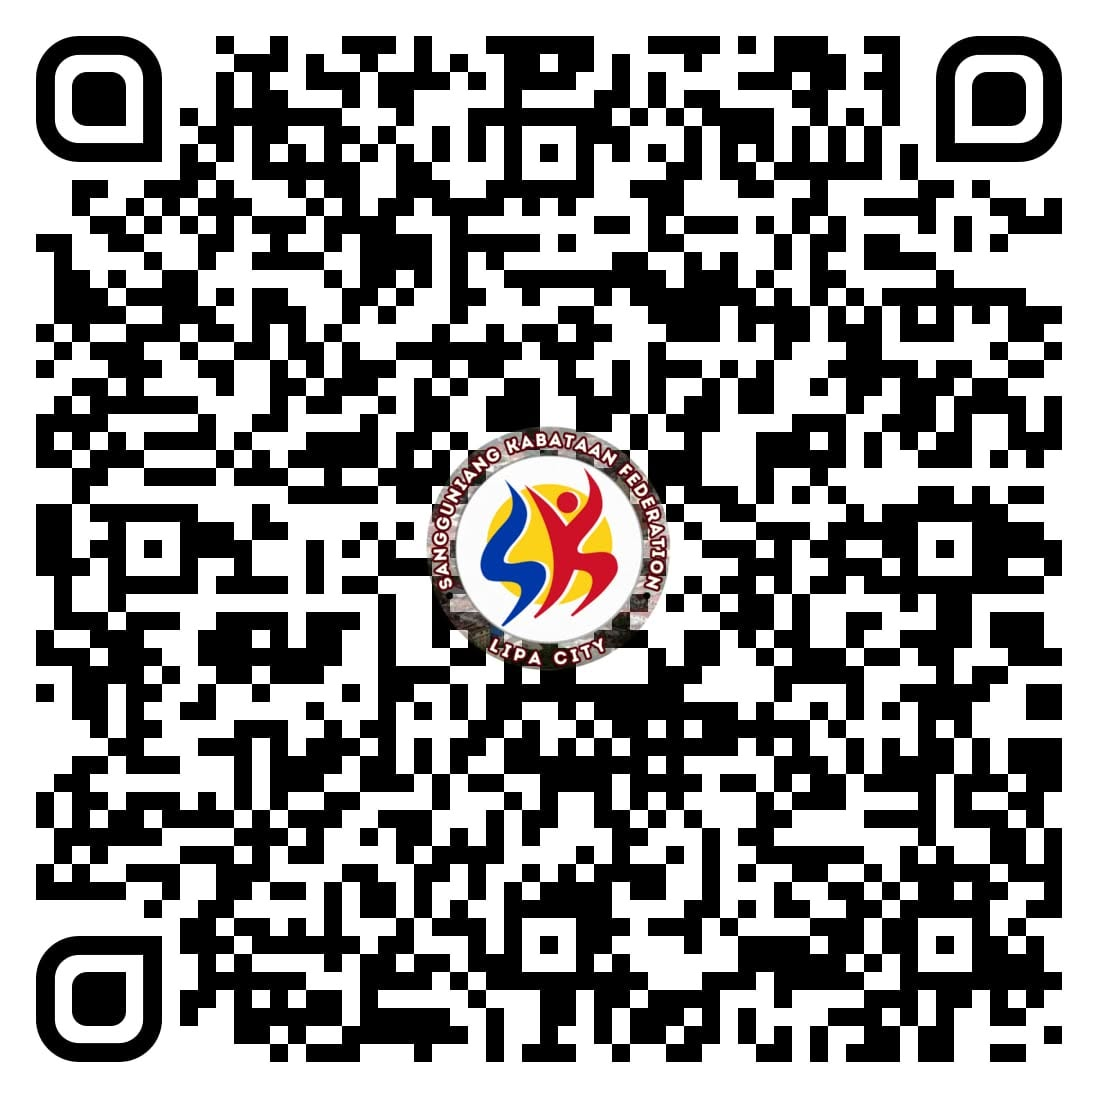
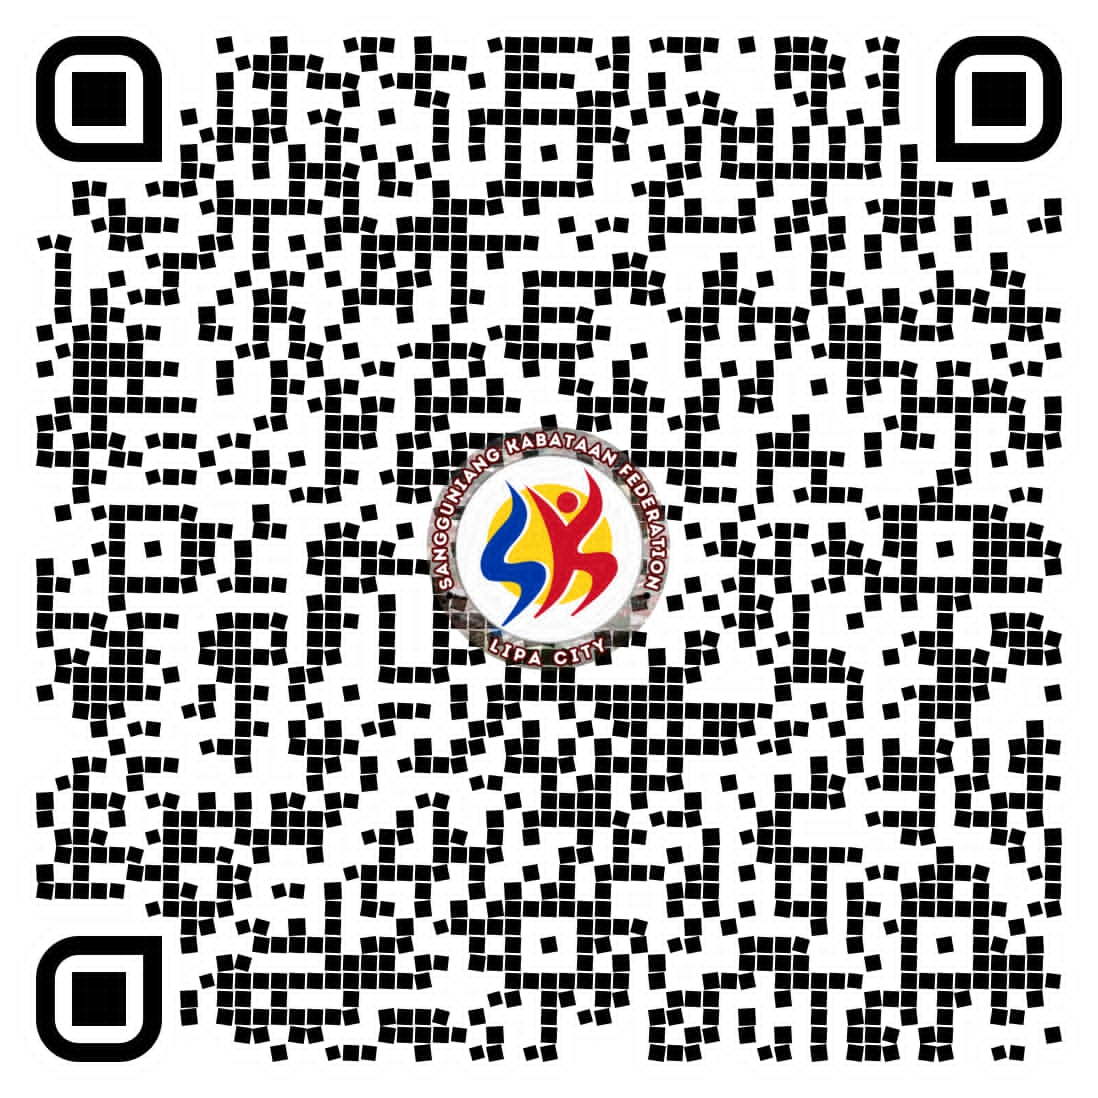
App Download

Changed region(s): [[0.031, 0.031, 0.9909, 0.9909], [0.5574, 0.5574, 0.5883, 0.5883]]

diff --git a/resources/views/welcome.blade.php b/resources/views/welcome.blade.php
@@ -370,7 +370,7 @@
             <button type="button" class="sk-download-modal__close" data-download-close aria-label="Close app download dialog">&times;</button>
             <div class="sk-download-modal__qr">
                 @if(file_exists(public_path('images/mobile-app-qr.jpg')))
-                    <img src="{{ asset('images/mobile-app-qr.jpg') }}" alt="QR code to download the SK360 Android APK" width="260" height="260">
+                    <img src="{{ asset('images/mobile-app-qr.jpg') }}?v={{ filemtime(public_path('images/mobile-app-qr.jpg')) }}" alt="QR code to download the SK360 Android APK" width="260" height="260">
                 @else
                     <p class="sk-download-modal__missing">QR code image is not available yet. Use the download button or add the provided image at <code>public/images/mobile-app-qr.png</code>.</p>
                 @endif
@@ -379,7 +379,7 @@
                 <span class="sk-download-modal__eyebrow">SK 360&deg; MOBILE APP</span>
                 <h2 id="skDownloadTitle">Get SK360 for Android</h2>
                 <p id="skDownloadDescription">Scan the QR code using your phone to access the SK360 app download.</p>
-                <a class="sk-download-modal__button" href="https://drive.usercontent.google.com/download?id=194h2O9TwWd04J3XyswPvgQmW7fxHUA-9&amp;export=download&amp;authuser=0" target="_blank" rel="noopener noreferrer">Download Android APK</a>
+                <a class="sk-download-modal__button" href="https://drive.usercontent.google.com/download?id=1M5h-R48_-17b8EetHvAOfiizq46EZkGB&amp;export=download&amp;authuser=0" target="_blank" rel="noopener noreferrer">Download Android APK</a>
                 <span class="sk-download-modal__source">Android APK &middot; Google Drive</span>
             </div>
         </section>
